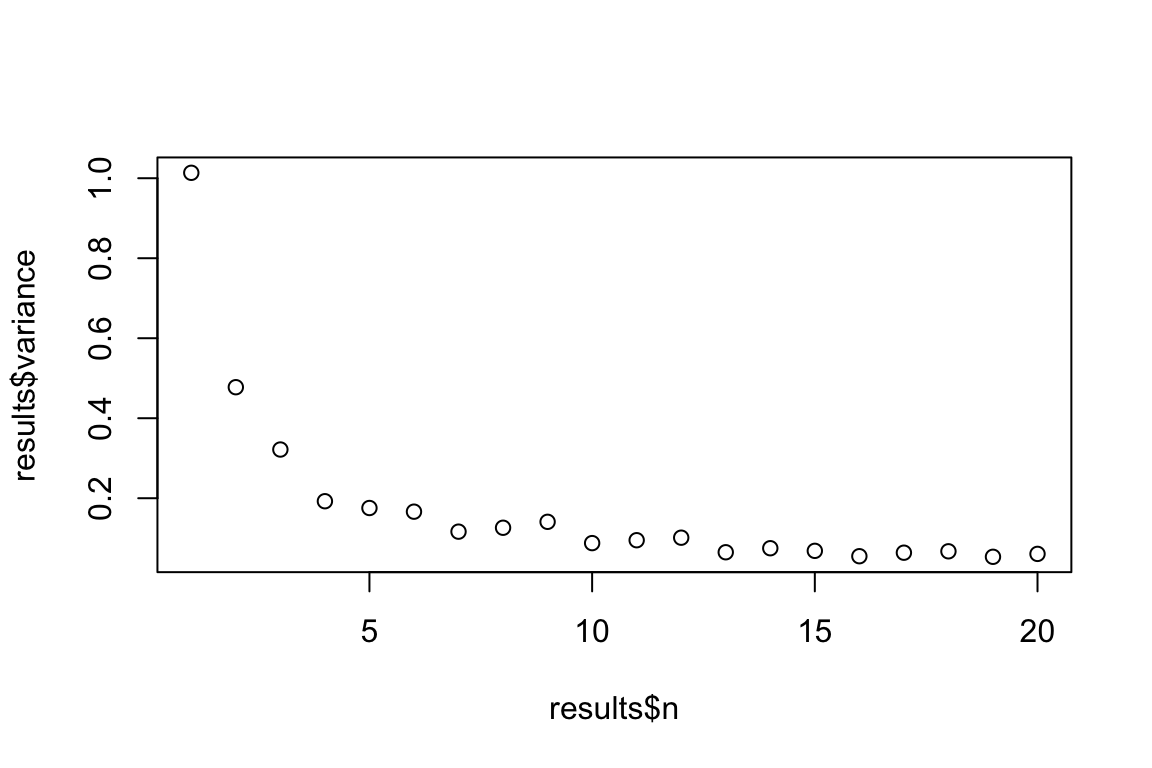
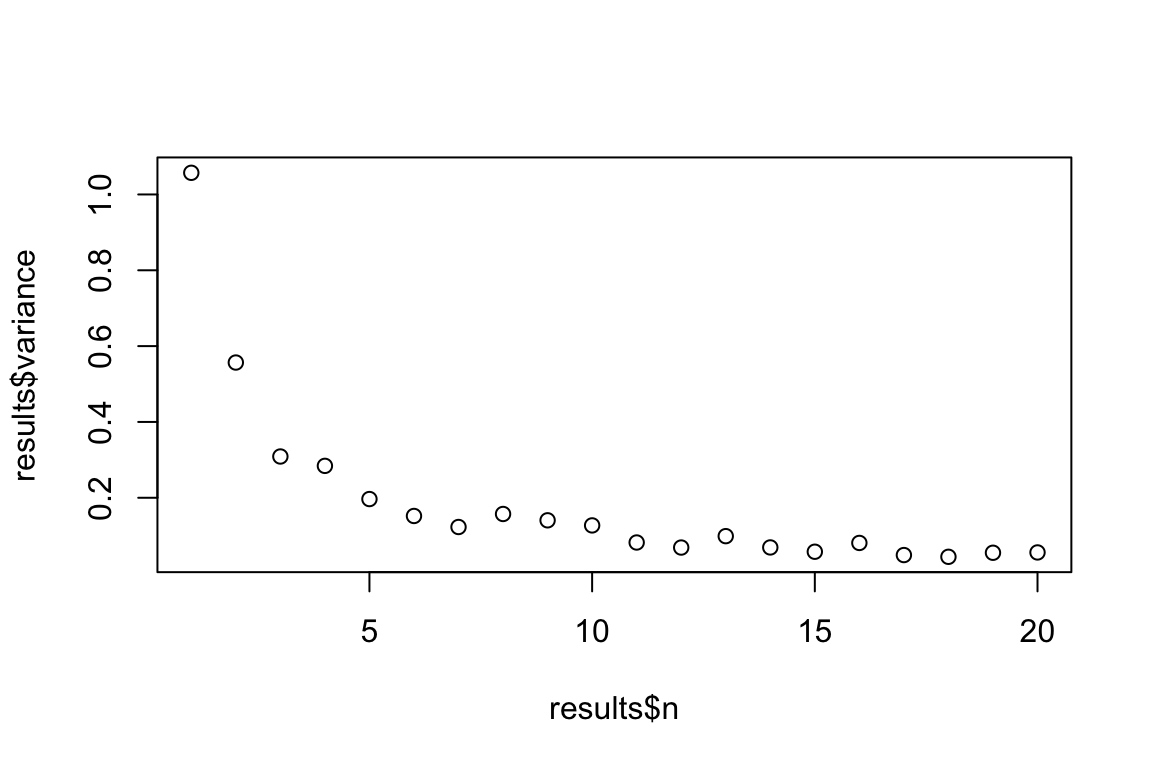
updated practical 04

diff --git a/04_Visualisation.html b/04_Visualisation.html
@@ -415,7 +415,6 @@ Prior to Analysis</h1>
 </div>
 
 
-<p>This page was last updated on January 26, 2024.</p>
 <hr />
 <div id="background" class="section level2">
 <h2>Background</h2>
@@ -459,7 +458,11 @@ process.</li>
 <p>These data will be used again in Practical 05 when we explore model
 fitting, selection, and model averaging. Our goal right now is dive into
 these data to get a feel for their structure so we know how to approach
-the modelling process.</p>
+the modelling process. You are asked to complete the following exercises
+and submit to Canvas before the deadline. In addition to the points
+detailed below, 5 points are assigned to the cleanliness of the code and
+resulting pdf document. Only knit documents (.pdf, .doc, or .html) will
+be accepted. Unknit .Rmd files will not be graded.</p>
 <div id="plot-the-predictors-against-the-response"
 class="section level3">
 <h3>Plot the predictors against the response</h3>
@@ -471,16 +474,18 @@ non-linear and should be modeled as e.g. a polynomial (but we will not
 explore that here). Let’s look at negs per chick versus arrival time,
 food treatment, the sex of the parent, and Nest ID.</p>
 <ol style="list-style-type: decimal">
-<li><ol></li>
+<li>3 points
+<ol></li>
 </ol>
 <ul>
 <li>Import the owl dataset (ensure your factors are actually
 factors).</li>
 <li>Use boxplots to inspect whether the number of negs per chick differs
-by food treatment, the sex of the parent, and/or Nest ID.</li>
+by food treatment, the sex of the parent, and/or Nest ID. – 1
+point(s)</li>
 <li>Plot a scatterplot of the number of negs per chick as a function of
-arrival time.</li>
-<li>Briefly describe what you see.
+arrival time. – 1 point(s)</li>
+<li>Briefly describe what you see. – 1 point(s)
 </ol></li>
 </ul>
 </div>
@@ -491,19 +496,21 @@ understand how balanced/unbalanced the sampling was. This is especially
 true for nested data (no pun intended). If certain groups are over
 represented, there is a chance that they can outweigh others and vice
 versa for underrepresented groups. Mixed effects models can, to some
-extent, handle unbalanced designs, but it is good to know about this a
-priori. For example, if 95% of the data were to have come from 1 nest,
-then this can result in a number of problems.</p>
+extent, handle unbalanced designs, but it is good to know about this
+<em>a priori</em>. For example, if 95% of the data were to have come
+from 1 nest, then this can result in a number of challenges.</p>
 <ol style="list-style-type: decimal">
-<li><ol></li>
+<li>3 points
+<ol></li>
 </ol>
 <ul>
 <li>Use barplots to plot the amount of data in the different groups for
-each of the variables</li>
-<li>Describe patterns in sampling you see in these plots</li>
+each of the variables. – 1 point(s)</li>
+<li>Describe patterns in sampling you see in these plots. – 1
+point(s)</li>
 <li>Generate and inspect a table of the number of samples in each nest
 for each level of i) food treatments and ii) the parent’s sex. Is there
-any cause for concern?</li>
+any cause for concern? – 1 point(s)</li>
 </ul>
 <strong>Note:</strong> This will be easier if you make use of the
 <code>table()</code> function.
@@ -524,28 +531,29 @@ itself. In our initial inspection above, there were some potential
 imbalances related to the various treatments/sampling groups. Let’s
 explore this further.</p>
 <ol style="list-style-type: decimal">
-<li><ol></li>
+<li>7 points
+<ol></li>
 </ol>
 <ul>
 <li>Create a boxplot depicting the number of negs per chick in each
 nest. Describe what you see in relation to the sampling you just
-explored.</li>
+explored. – 1 point(s)</li>
 <li>Plot the mean number of negs per chick in each nest versus the
 amount of data for each nest (hint: the <code>aggregate()</code>
 function is useful here). Visually, do you see a cause for concern? Fit
-a simple linear model to confirm.</li>
+a simple linear model to confirm. – 1 point(s)</li>
 <li>Create a boxplot of the number of negs per chick grouped by both
-nest and food treatment. Is this cause for concern?</li>
+nest and food treatment. Is this cause for concern? – 1 point(s)</li>
 <li>Create a boxplot of the number of negs per chick grouped by both
-nest and sex of the parent. Is this cause for concern?</li>
+nest and sex of the parent. Is this cause for concern? – 1 point(s)</li>
 <li>Plot The number of negs per chick as a function of arrival time.
 Colour the data by nest ID. Do you see any patterns that might skew
-conventional regressional analyses?</li>
+conventional regressional analyses? – 1 point(s)</li>
 <li>Make this same plot again, but now add a regression line for the
 number of negs per chick as a function of arrival time for each nest
-(hint: a for loop can do this straightforwardly). Do you think there
-will be a need for a variable slope model? What about a variable
-intercept model?
+(hint: you can do this either via ggplot or using a for loop). Do you
+think there will be a need for a variable slope model? What about a
+variable intercept model? – 2 point(s)
 </ol></li>
 </ul>
 </div>
@@ -559,13 +567,14 @@ relationships between the predictor variables. Here we have i) arrival
 time, a continuous variable; ii) the sex of the parent, a factor with
 two levels; and iii) the food treatment, a factor with two levels.</p>
 <ol style="list-style-type: decimal">
-<li><ol></li>
+<li>2 points
+<ol></li>
 </ol>
 <ul>
 <li>Use a combination of boxplots and simple linear models to check
 whether arrival time differs between the sexes of the parents and the
 food treatment. Do you see any issues with including these predictor
-variables in a model?</li>
+variables in a model? – 2 point(s)</li>
 </ul>
 </ol>
 </div>
@@ -575,10 +584,11 @@ variables in a model?</li>
 was to figure out how we would build a model identifying the factors
 influencing begging behaviour of nestling owls.</p>
 <ol style="list-style-type: decimal">
-<li><ol></li>
+<li>5 points
+<ol></li>
 </ol>
 <ul>
-<li>Briefly detail how you expect to model these data.
+<li>Briefly detail how you expect to model these data. – 5 point(s)
 </ol></li>
 </ul>
 </div>

diff --git a/Simulation.html b/Simulation.html
@@ -420,7 +420,7 @@ div.tocify {
 </div>
 
 
-<p>This page was last updated on January 26, 2024.</p>
+<p>This page was last updated on February 01, 2024.</p>
 <hr />
 <div id="background" class="section level2">
 <h2>Background</h2>
@@ -453,7 +453,7 @@ working with the normal distribution see <code>help(Normal)</code></p>
 <pre class="r"><code>rnorm(n = 5,                  # number of observations
       mean = 0,               # vector of means
       sd = 1)                 # vector of standard deviations</code></pre>
-<pre><code>## [1]  0.1332061  0.6592308 -0.5155762 -0.2545527  0.8321827</code></pre>
+<pre><code>## [1]  1.01042391  0.21556298  0.06996322 -0.30083255 -0.93657543</code></pre>
 <p>Because <code>rnorm</code> is expecting a vector for each entry, this
 function is very flexible. For example we can sample 5 values from
 normal distributions with different means and different standard
@@ -461,7 +461,7 @@ deviations without having to re-write the function 5 times.</p>
 <pre class="r"><code>rnorm(n = 5,                  # number of observations
       mean = c(1,2,3,4,5),    # vector of means
       sd = 1:5)               # vector of standard deviations</code></pre>
-<pre><code>## [1] -0.6958394 -0.8705667  4.9785825 -0.8133832  8.4920219</code></pre>
+<pre><code>## [1]  1.454064  2.406087  6.614313  1.127721 -3.048822</code></pre>
 <hr />
 </div>
 <div id="poisson" class="section level3">
@@ -473,7 +473,7 @@ on working with the Poisson distribution see
 <p><strong>Note:</strong> Will only return whole numbers</p>
 <pre class="r"><code>rpois(n = 5,                  # number of observations
       lambda = 1)             # vector of (non-negative) rate parameters</code></pre>
-<pre><code>## [1] 1 0 2 1 1</code></pre>
+<pre><code>## [1] 0 1 2 1 1</code></pre>
 <p>Because <code>rpois</code> is expecting a vector for each entry, this
 function is very flexible. For example we can sample 5 values from
 Poisson distributions with different rate parameters <span
@@ -481,7 +481,7 @@ class="math inline">\(\lambda\)</span>, without having to re-write the
 function 5 times.</p>
 <pre class="r"><code>rpois(n = 5,                  # number of observations
       lambda = c(1,2,3,4,5))  # vector of (non-negative) rate parameters</code></pre>
-<pre><code>## [1] 0 2 2 2 4</code></pre>
+<pre><code>## [1] 2 2 2 8 5</code></pre>
 <hr />
 </div>
 <div id="binomial" class="section level3">
@@ -493,14 +493,14 @@ on working with the binomial distribution see
 <pre class="r"><code>rbinom(n = 5,                  # number of observations
        size = 1,               # number of trials (zero or more)
        prob = 0.5)             # probability of success on each trial.</code></pre>
-<pre><code>## [1] 1 1 0 0 1</code></pre>
+<pre><code>## [1] 1 0 1 1 1</code></pre>
 <p>If we change the number of trials we get the number of successes
 across the number of trials. In this example we have simulated the
 number of successes in 5 replicates of 20 trials.</p>
 <pre class="r"><code>rbinom(n = 5,                  # number of observations
        size = 20,              # number of trials (zero or more)
        prob = 0.5)             # probability of success on each trial.</code></pre>
-<pre><code>## [1] 10  9 13  7 11</code></pre>
+<pre><code>## [1] 11  8 11 10 11</code></pre>
 <p>Because <code>rbinom</code> is expecting a vector for each entry,
 this function is very flexible. For example we can simulate the number
 of successes in 5 replicates of 20 trials, with a different probability
@@ -508,7 +508,7 @@ of success in each trial</p>
 <pre class="r"><code>rbinom(n = 5,
        size = 20,
        prob = c(0.2, 0.4, 0.6, 0.8, 1))</code></pre>
-<pre><code>## [1]  2 10 13 17 20</code></pre>
+<pre><code>## [1]  5  9 13 19 20</code></pre>
 <hr />
 </div>
 <div id="uniform" class="section level3">
@@ -520,7 +520,7 @@ on working with the uniform distribution see
 <pre class="r"><code>runif(n = 5,                  # number of observations
       min = 0,                # lower limit of the distribution. Must be finite.
       max = 20)               # upper limit of the distribution. Must be finite.</code></pre>
-<pre><code>## [1]  5.966338  4.408480  9.058667 19.927586 17.318433</code></pre>
+<pre><code>## [1] 2.656464 9.620567 5.998461 3.618786 5.872596</code></pre>
 <p>Unlike the other distributions <code>runif</code> is not expecting
 vector for the <code>min</code> and <code>max</code> arguments, so this
 function does not have the same amount of inherent flexibility.</p>
@@ -535,11 +535,11 @@ random numbers.</p>
 <p>For example, we can sample 5 random numbers from a normal
 distribution with <code>rnorm()</code>.</p>
 <pre class="r"><code>rnorm(5)</code></pre>
-<pre><code>## [1]  0.25894199  2.03321866  0.05460767 -0.15792155 -0.39984772</code></pre>
+<pre><code>## [1] -0.71053398  0.07831562  0.27806065  1.34969466  0.21172981</code></pre>
 <p>If we do this a second time the sequence of numbers will always be
 different.</p>
 <pre class="r"><code>rnorm(5)</code></pre>
-<pre><code>## [1]  0.4574605 -0.6557524 -0.7025169 -0.5502969  1.2753106</code></pre>
+<pre><code>## [1]  0.3447934  0.6399271 -0.1306647 -0.8877437 -0.5293305</code></pre>
 <p>But if we want to be sure we can get the same sequence of randomly
 generated numbers every single time, we have to set the seed prior to
 simulating.</p>

diff --git a/for_loops.html b/for_loops.html
@@ -420,7 +420,7 @@ div.tocify {
 </div>
 
 
-<p>This page was last updated on January 26, 2024.</p>
+<p>This page was last updated on February 01, 2024.</p>
 <hr />
 <div id="background" class="section level2">
 <h2>Background</h2>
@@ -545,8 +545,7 @@ for(i in 1:50){
 }
 
 head(MEANS)</code></pre>
-<pre><code>## [1] -0.5549402122  0.2997778627 -0.1787378510 -0.0008710247 -0.3024907109
-## [6] -0.0449116284</code></pre>
+<pre><code>## [1] -0.1775737 -0.0120650  0.4525612  0.1553435 -0.2097950  0.5872926</code></pre>
 <p>Generally speaking it’s best practice to define the length of the
 vector before running the for loop. This is because ‘growing’ the length
 of a variable in a for loop is computationally inefficient and can slow
@@ -573,9 +572,10 @@ for(i in 1:50){
 }
 
 head(MEANS)</code></pre>
-<pre><code>## [1]  0.47189495 -0.23749337  0.04235261  0.52577810  0.14610979 -0.07471528</code></pre>
+<pre><code>## [1] -0.186639084  0.008442812 -0.533903073  0.495030095  0.497541277
+## [6]  0.189455788</code></pre>
 <pre class="r"><code>head(SDs)</code></pre>
-<pre><code>## [1] 0.8833270 1.0301245 0.7863768 0.4364586 0.6188272 0.6966204</code></pre>
+<pre><code>## [1] 0.9269096 1.2981547 1.1123793 0.6905977 0.5738516 1.1041033</code></pre>
 <p>But this can quickly get unwieldy if we have a lot of information we
 want to save. Another option is to save our outputs in lists. Lists are
 extremely flexible ways of storing information.</p>
@@ -592,22 +592,22 @@ for(i in 1:50){
 
 head(RESULTS)</code></pre>
 <pre><code>## [[1]]
-## [1] -0.5511975  0.9271553  0.8596169
+## [1] -0.005398288  1.319705093  1.741621533
 ## 
 ## [[2]]
-## [1] -0.2124499  1.0909390  1.1901479
+## [1] -0.0358038  1.2360660  1.5278591
 ## 
 ## [[3]]
-## [1] 0.3820613 0.9301314 0.8651444
+## [1] -0.2184938  0.9955905  0.9912004
 ## 
 ## [[4]]
-## [1] 0.1049053 1.1134696 1.2398145
+## [1] 0.07120882 1.33249896 1.77555349
 ## 
 ## [[5]]
-## [1] -0.0551151  0.7867137  0.6189185
+## [1] 0.3029196 0.7935969 0.6297960
 ## 
 ## [[6]]
-## [1] 0.6472717 0.9824333 0.9651753</code></pre>
+## [1] -0.0722519  1.0216039  1.0436746</code></pre>
 <p>Here each slot in the list contains a vector of length 3 which
 contains the estimated mean, standard deviation, and variance. Storing
 results in a list is very convenient because everything gets stored in
@@ -619,13 +619,13 @@ work with format.</p>
 RESULTS_CLEAN &lt;- data.frame(RESULTS_CLEAN)
 names(RESULTS_CLEAN) &lt;- c(&quot;mean&quot;, &quot;sd&quot;, &quot;var&quot;)
 head(RESULTS_CLEAN)</code></pre>
-<pre><code>##         mean        sd       var
-## 1 -0.5511975 0.9271553 0.8596169
-## 2 -0.2124499 1.0909390 1.1901479
-## 3  0.3820613 0.9301314 0.8651444
-## 4  0.1049053 1.1134696 1.2398145
-## 5 -0.0551151 0.7867137 0.6189185
-## 6  0.6472717 0.9824333 0.9651753</code></pre>
+<pre><code>##           mean        sd       var
+## 1 -0.005398288 1.3197051 1.7416215
+## 2 -0.035803800 1.2360660 1.5278591
+## 3 -0.218493836 0.9955905 0.9912004
+## 4  0.071208817 1.3324990 1.7755535
+## 5  0.302919574 0.7935969 0.6297960
+## 6 -0.072251903 1.0216039 1.0436746</code></pre>
 <hr />
 </div>
 <div id="nested-for-loops" class="section level2">

diff --git a/Lectures.html b/Lectures.html
@@ -483,6 +483,8 @@ class="section level4">
 <h4>Lecture 07 - Mixed Effects Models</h4>
 <p><a href="Lectures/07_Mixed_Models.pdf" target="_blank">Slides.
 </a></p>
+<p><a href="https://ubc.zoom.us/rec/share/fnKPSbZBeIDvE_njkpEnc_EBpAGyZRJtDcMdimYAy8hr6hIC7fIyJsxl2t4BMhpb.IOUdp9Buher_8mFf" target="_blank">Recording
+- 2024.</a></p>
 <p><a href="https://ubc.zoom.us/rec/share/m4wkZJoUxftCtobAI_mU7uvzhIIpobShuq7W3CUPtCEuIYy-fCquMK9_sTpSQUy_.MYQ0xYm47YpZotzr" target="_blank">Recording
 - 2022 (There was a technical issue in 2023).</a></p>
 </div>

diff --git a/09_Logistic_Regression.html b/09_Logistic_Regression.html
@@ -415,7 +415,7 @@ Generalised Linear Models for 0,1 and Proportion Data</h1>
 </div>
 
 
-<p>This page was last updated on January 26, 2024.</p>
+<p>This page was last updated on February 01, 2024.</p>
 <script type="text/x-mathjax-config">
 MathJax.Hub.Register.StartupHook('TeX Jax Ready', function () {
 MathJax.InputJax.TeX.prefilterHooks.Add(function (data) {

diff --git a/06_Heteroskedasticity_Autocorrelation.html b/06_Heteroskedasticity_Autocorrelation.html
@@ -415,7 +415,7 @@ Autocorrelation, and the IID Assumption</h1>
 </div>
 
 
-<p>This page was last updated on January 26, 2024.</p>
+<p>This page was last updated on February 01, 2024.</p>
 <script type="text/x-mathjax-config">
 MathJax.Hub.Register.StartupHook('TeX Jax Ready', function () {
   MathJax.InputJax.TeX.prefilterHooks.Add(function (data) {

diff --git a/10_Stochastic_Simulation.html b/10_Stochastic_Simulation.html
@@ -415,7 +415,7 @@ Analysis, and Non-Linear Models</h1>
 </div>
 
 
-<p>This page was last updated on January 26, 2024.</p>
+<p>This page was last updated on February 01, 2024.</p>
 <script type="text/x-mathjax-config">
 MathJax.Hub.Register.StartupHook('TeX Jax Ready', function () {
 MathJax.InputJax.TeX.prefilterHooks.Add(function (data) {

diff --git a/07_Spatial_and_Phylogenetic_Autocorrelation.html b/07_Spatial_and_Phylogenetic_Autocorrelation.html
@@ -415,7 +415,7 @@ Autocorrelation</h1>
 </div>
 
 
-<p>This page was last updated on January 26, 2024.</p>
+<p>This page was last updated on February 01, 2024.</p>
 <script type="text/x-mathjax-config">
 MathJax.Hub.Register.StartupHook('TeX Jax Ready', function () {
   MathJax.InputJax.TeX.prefilterHooks.Add(function (data) {

diff --git a/08_GLMs_for_Count_Data.html b/08_GLMs_for_Count_Data.html
@@ -415,7 +415,7 @@ for Count Data</h1>
 </div>
 
 
-<p>This page was last updated on January 26, 2024.</p>
+<p>This page was last updated on February 01, 2024.</p>
 <script type="text/x-mathjax-config">
 MathJax.Hub.Register.StartupHook('TeX Jax Ready', function () {
   MathJax.InputJax.TeX.prefilterHooks.Add(function (data) {

diff --git a/05_MEM_Model_Selection.html b/05_MEM_Model_Selection.html
@@ -415,7 +415,7 @@ Selection, and Model Averaging</h1>
 </div>
 
 
-<p>This page was last updated on January 26, 2024.</p>
+<p>This page was last updated on February 01, 2024.</p>
 <hr />
 <div id="background" class="section level2">
 <h2>Background</h2>

diff --git a/Plotting.html b/Plotting.html
@@ -420,7 +420,7 @@ div.tocify {
 </div>
 
 
-<p>This page was last updated on January 26, 2024.</p>
+<p>This page was last updated on February 01, 2024.</p>
 <hr />
 <div id="background" class="section level2">
 <h2>Background</h2>
